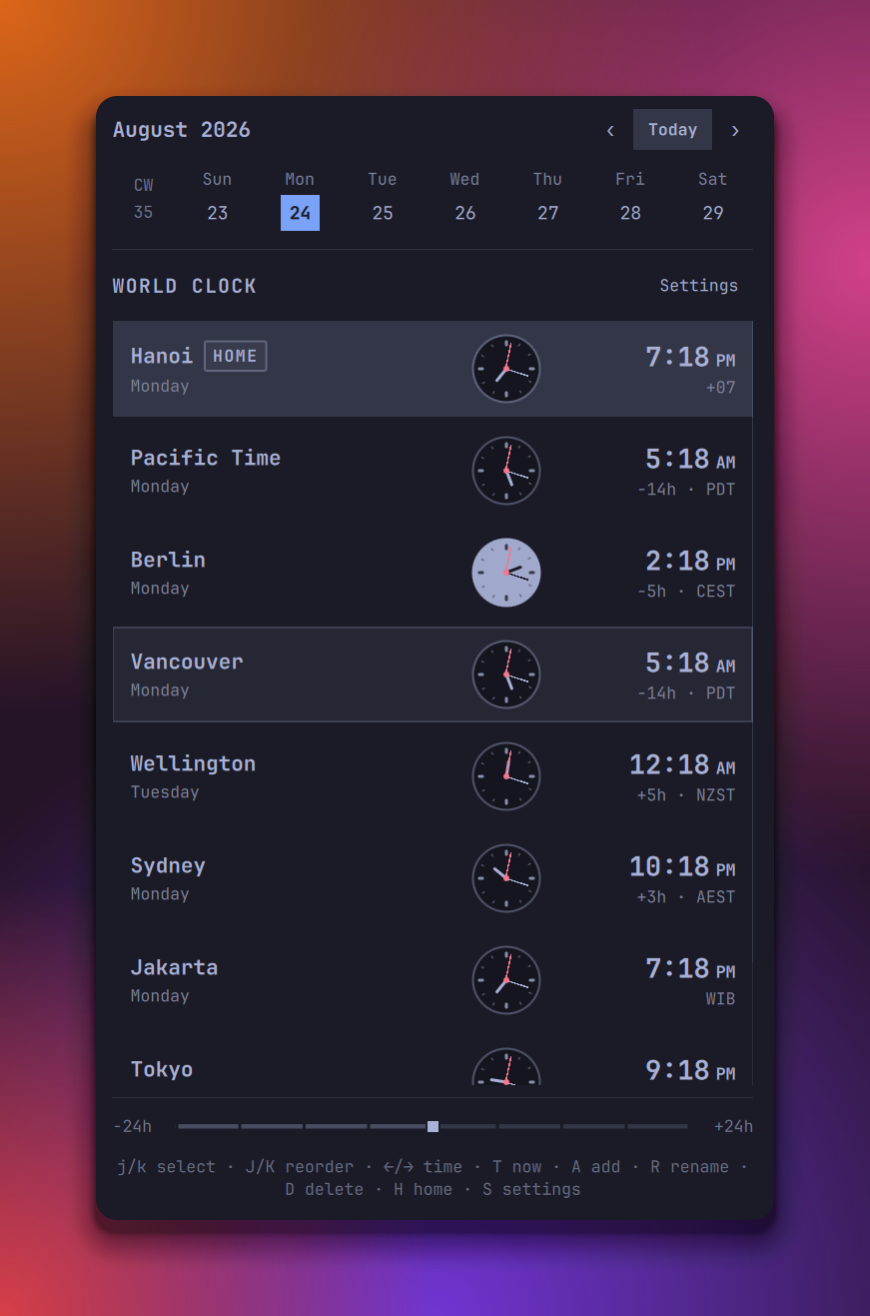
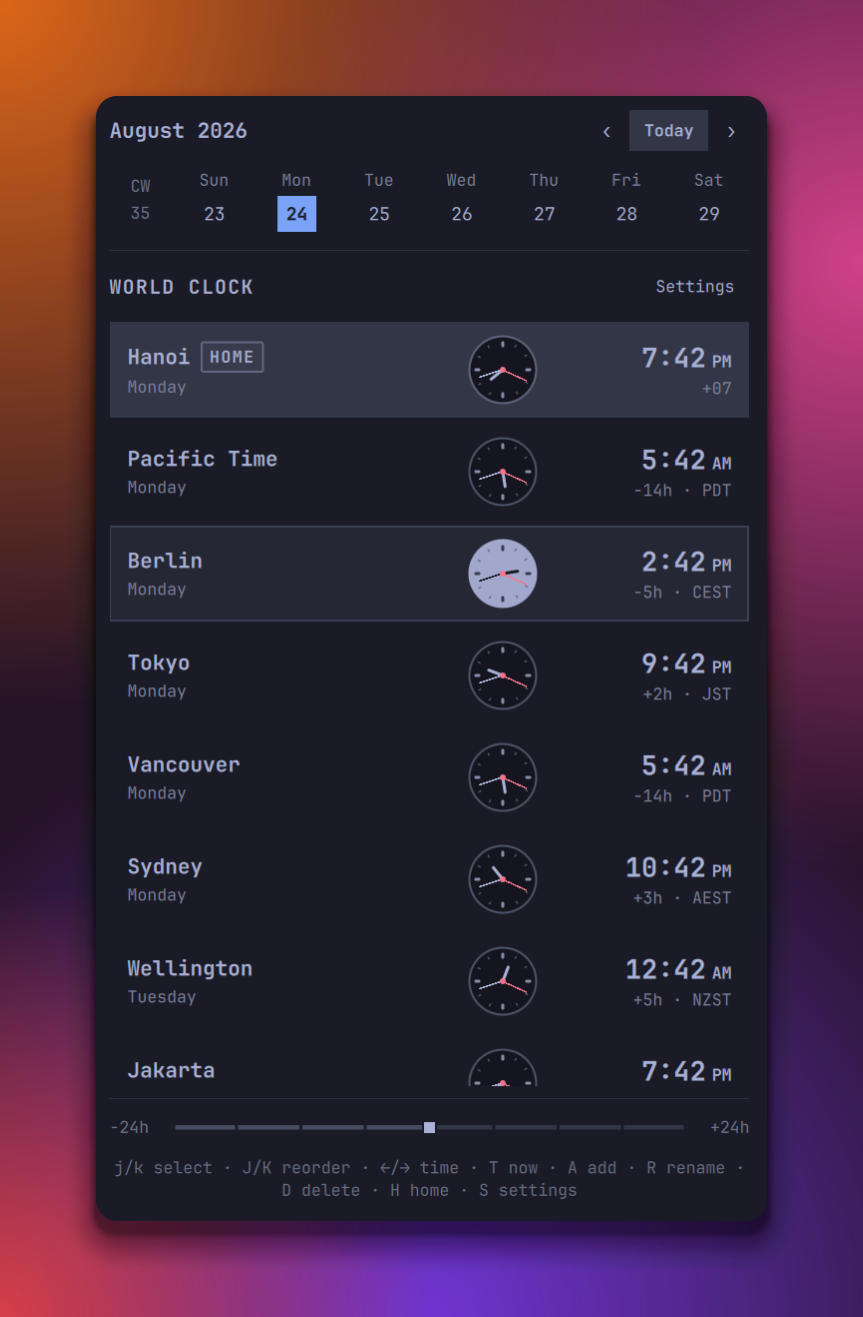
docs: refresh readme and preview

diff --git a/README.md b/README.md
@@ -1,8 +1,10 @@
 # Omarchy World Clock
 
-A keyboard-friendly world clock for the Omarchy Quattro bar. Compare several
-locations, plan up to 24 hours ahead or behind, and keep the built-in
-`omarchy.clock` alongside it.
+A keyboard-friendly world clock for the Omarchy Quattro bar. Track multiple
+locations, plan with the time slider, and compare local times using digital
+or analog clocks.
+
+It works alongside the built-in `omarchy.clock`; it does not replace it.
 
 ![Omarchy World Clock panel](preview.png)
 
